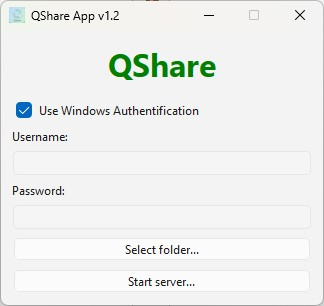
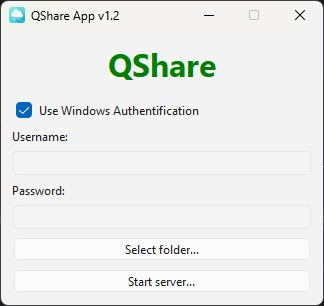
18042026-1301

Changed region(s): [[0.0, 0.0, 1.0, 1.0], [0.0, 0.0, 0.4321, 0.0882]]

diff --git a/main.py b/main.py
@@ -12,8 +12,10 @@
 # 2026-07-08 - az - v1.1
 # 2026-04-16 - az - User-defined login credentials; OS platform check
 # 2026-04-16 - az - v1.2
+# 2026-04-18 - az - changed app icon
+# 2026-04-18 - az - v1.2.1
 # -----------------------------------------------------------------------------
-import ipaddress
+
 import sys
 import socket
 import threading
@@ -33,11 +35,6 @@ import pyqrcode
 from flask import Flask, request, render_template, url_for, redirect, abort, send_file
 from pathlib import Path
 from werkzeug.security import safe_join
-import datetime
-from cryptography import x509
-from cryptography.x509.oid import NameOID
-from cryptography.hazmat.primitives import hashes, serialization
-from cryptography.hazmat.primitives.asymmetric import rsa
 
 # -----------------------------------------------------------------------------
 
@@ -51,7 +48,7 @@ class AppGlobal:
     def __init__(self):
         # App
         self.title = "QShare App"
-        self.version = "v1.2"
+        self.version = "v1.2.1"
 
         # Server
         self.app = Flask(__name__)
